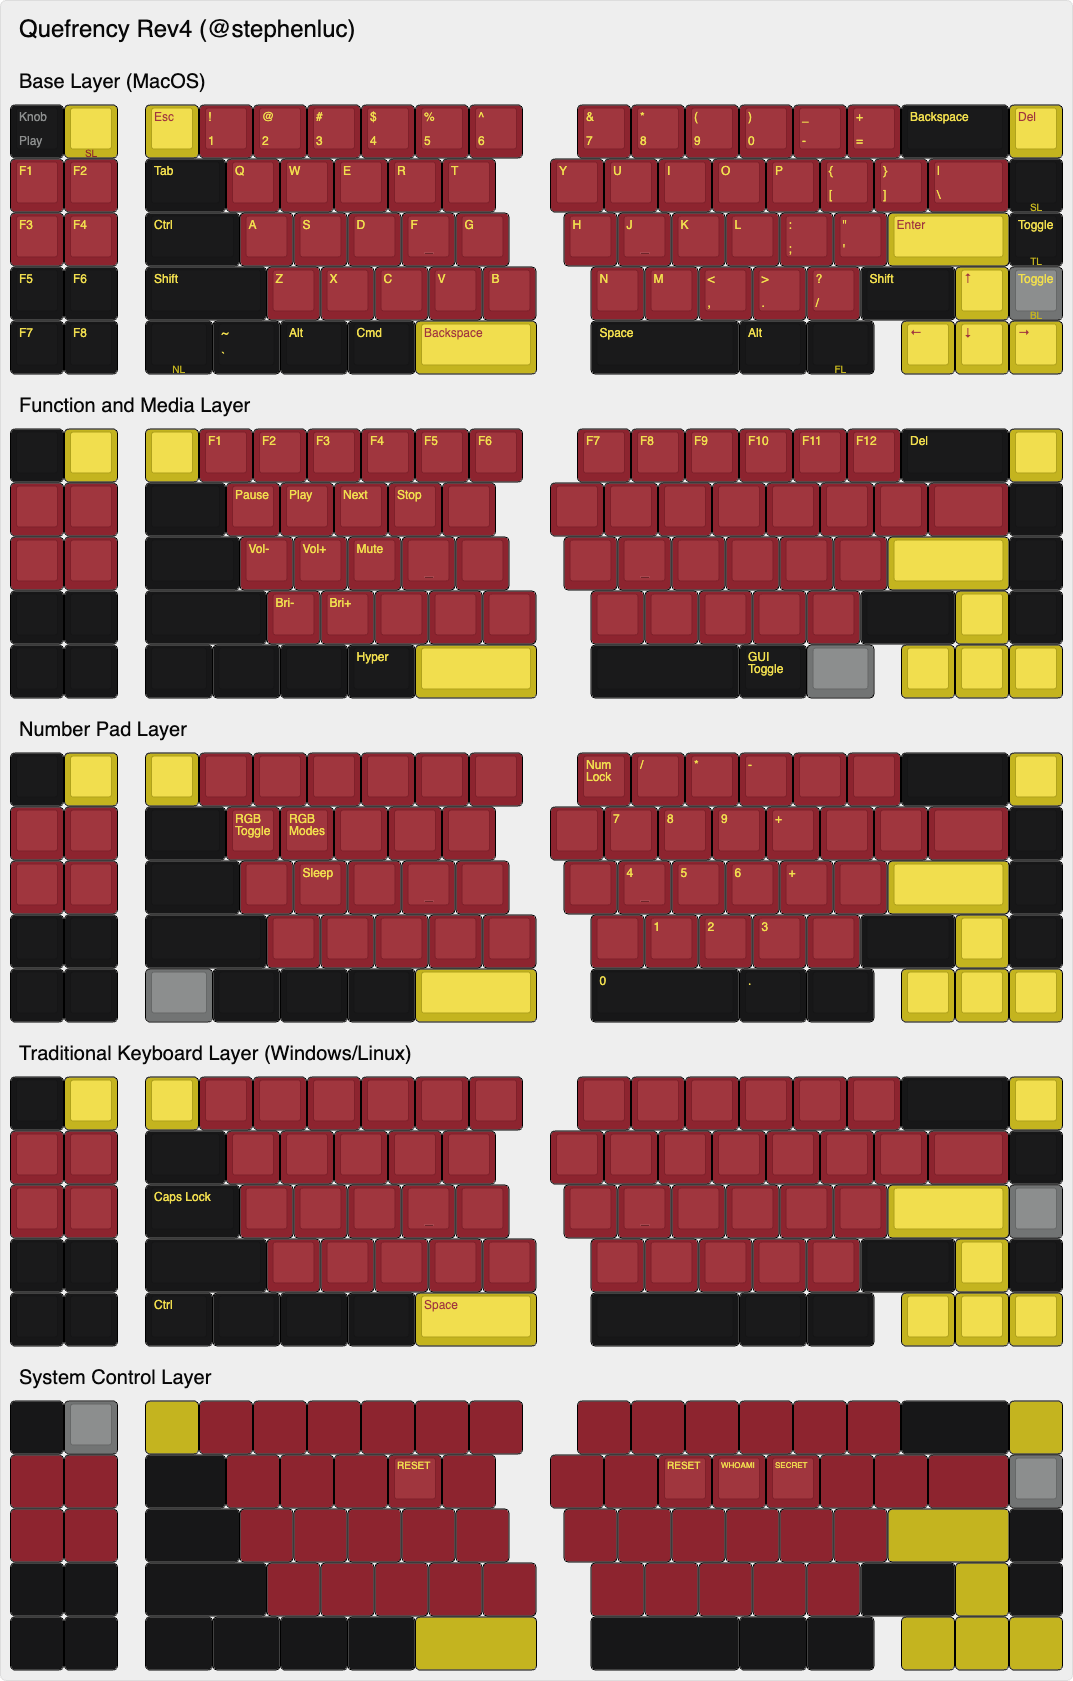
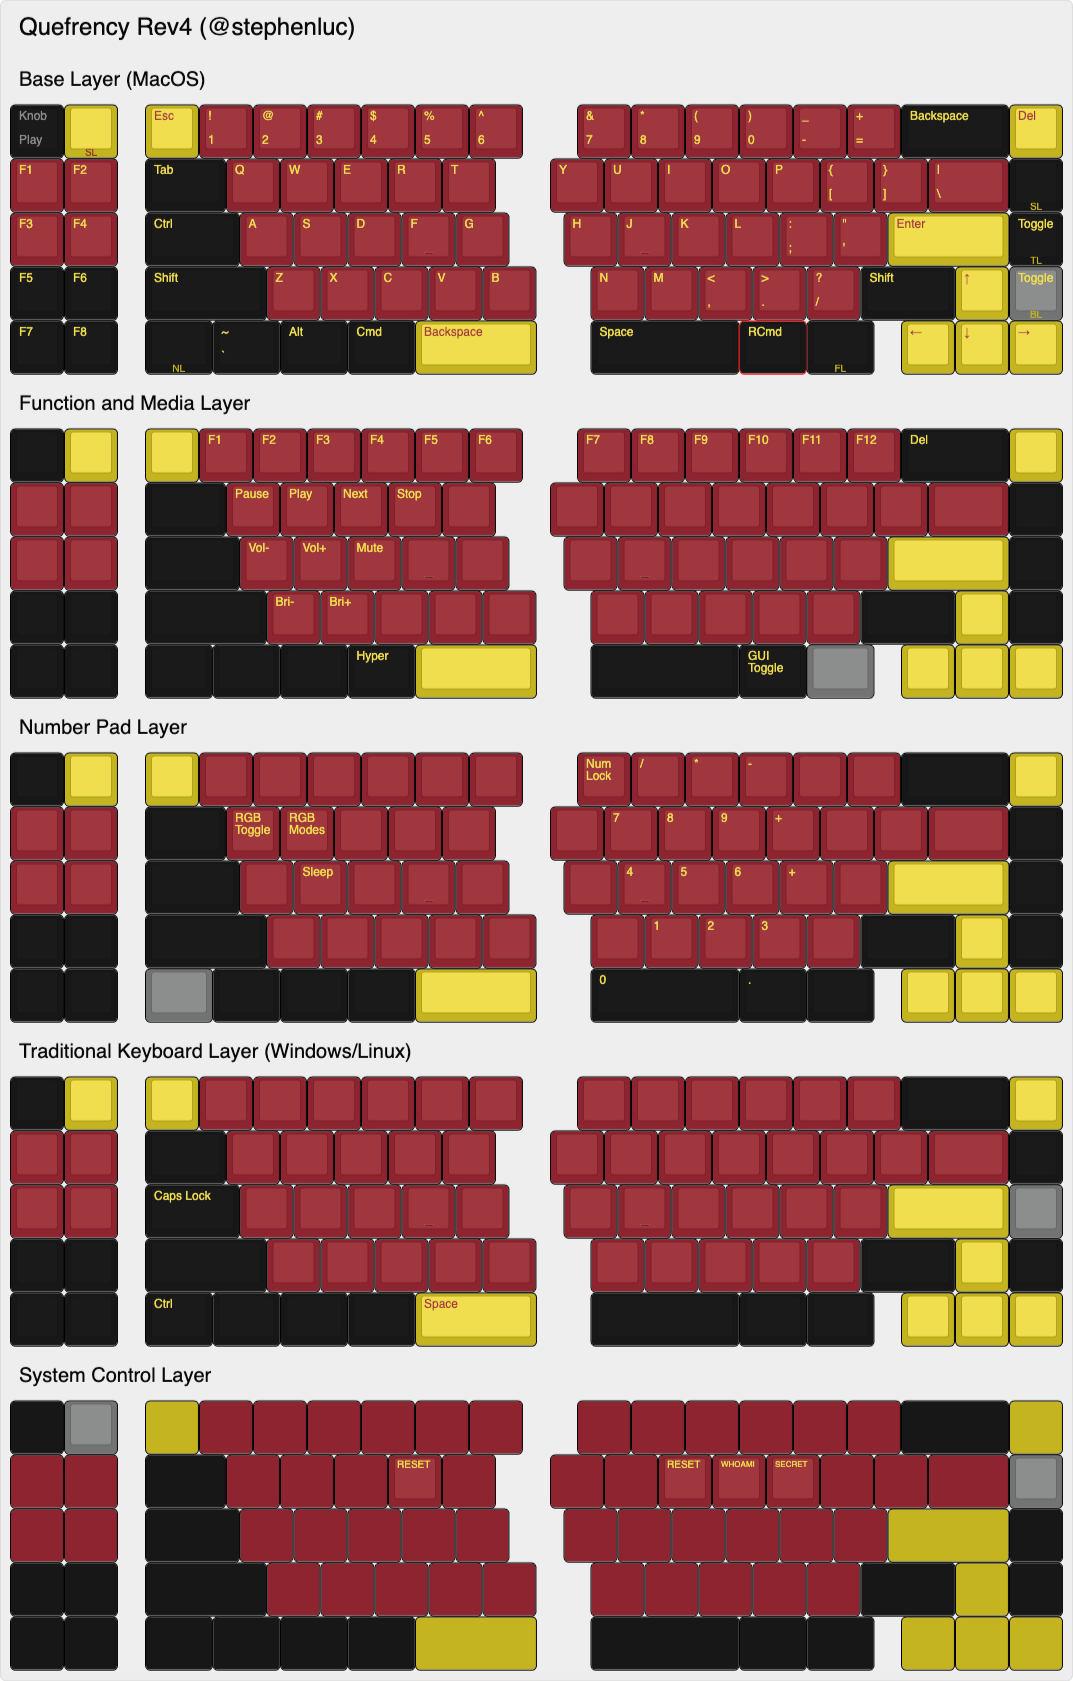
update the keymapping for quefrency

diff --git a/stephenluc/quefrency/keymap.c b/stephenluc/quefrency/keymap.c
@@ -66,7 +66,7 @@ const uint16_t PROGMEM keymaps[][MATRIX_ROWS][MATRIX_COLS] = {
    *   ├─────┼─────┤ ├─────────┴──┬──┴──┬──┴──┬──┴──┬──┴──┬──┴──┐  └──┬──┴──┬──┴──┬──┴──┬──┴──┬──┴──┬──┴───────┬─────┼─────┤
    *   │ F5  │ F6  │ │   Shift    │  Z  │  X  │  C  │  V  │  B  │     │  N  │  M  │  ,  │  .  │  /  │  Shift   │ Up  │T(BL)│
    *   ├─────┼─────┤ ├──────┬─────┴─┬───┴──┬──┴────┬┴─────┴─────┤     ├─────┴─────┴────┬┴─────┼─────┴┬───┬─────┼─────┼─────┤
-   *   │ F7  │ F8  │ │M(NL) │   `   │ Alt  │  Cmd  │ Backspace  │     │     Space      │ Alt  │ M(FL)│   │Left │Down │Right│
+   *   │ F7  │ F8  │ │M(NL) │   `   │ Alt  │  Cmd  │ Backspace  │     │     Space      │ RCmd │ M(FL)│   │Left │Down │Right│
    *   └─────┴─────┘ └──────┴───────┴──────┴───────┴────────────┘     └────────────────┴──────┴──────┘   └─────┴─────┴─────┘
    */
   [_BL] = LAYOUT_65_with_macro(
@@ -74,7 +74,7 @@ const uint16_t PROGMEM keymaps[][MATRIX_ROWS][MATRIX_COLS] = {
     KC_F1,   KC_F2,   KC_TAB,  KC_Q,    KC_W,    KC_E,    KC_R,    KC_T,    KC_Y,    KC_U,    KC_I,    KC_O,    KC_P,    KC_LBRC, KC_RBRC, KC_BSLS, MO(_SL),
     KC_F3,   KC_F4,   KC_LCTL, KC_A,    KC_S,    KC_D,    KC_F,    KC_G,    KC_H,    KC_J,    KC_K,    KC_L,    KC_SCLN, KC_QUOT, KC_ENT,  TO(_TL),
     KC_F5,   KC_F6,   KC_LSFT, KC_Z,    KC_X,    KC_C,    KC_V,    KC_B,    KC_N,    KC_M,    KC_COMM, KC_DOT,  KC_SLSH, KC_RSFT, KC_UP,   TO(_BL),
-    KC_F7,   KC_F8,   MO(_NL), KC_GRV, KC_LALT, KC_LGUI, KC_BSPC,           _______, KC_SPC,  KC_RALT, MO(_FL), _______, KC_LEFT, KC_DOWN, KC_RGHT
+    KC_F7,   KC_F8,   MO(_NL), KC_GRV, KC_LALT, KC_LGUI, KC_BSPC,           _______, KC_SPC,  KC_RGUI, MO(_FL), _______, KC_LEFT, KC_DOWN, KC_RGHT
   ),
 
   /* LAYOUT _FL: (Function Layer) Function and Media Key Layer
@@ -104,7 +104,7 @@ const uint16_t PROGMEM keymaps[][MATRIX_ROWS][MATRIX_COLS] = {
    *   ┌─────┬─────┐ ┌─────┬─────┬─────┬─────┬─────┬─────┬─────┐     ┌─────┬─────┬─────┬─────┬─────┬─────┬───────────┬─────┐
    *   │     │     │ │     │     │     │     │     │     │     │     │NumLk│  /  │  *  │  -  │     │     │           │     │
    *   ├─────┼─────┤ ├─────┴──┬──┴──┬──┴──┬──┴──┬──┴──┬──┴──┬──┘  ┌──┴──┬──┴──┬──┴──┬──┴──┬──┴──┬──┴──┬──┴──┬────────┼─────┤
-   *   │     │     │ │        │RgbTg│RgdMd│     │     │     │     │     │  7  │  8  │  9  │  +  │     │     │        │     │
+   *   │     │     │ │        │UgTog│UgNxt│     │     │     │     │     │  7  │  8  │  9  │  +  │     │     │        │     │
    *   ├─────┼─────┤ ├────────┴┬────┴┬────┴┬────┴┬────┴┬────┴┐    └┬────┴┬────┴┬────┴┬────┴┬────┴┬────┴┬────┴────────┼─────┤
    *   │     │     │ │         │     │Sleep│     │     │     │     │     │  4  │  5  │  6  │  +  │     │             │     │
    *   ├─────┼─────┤ ├─────────┴──┬──┴──┬──┴──┬──┴──┬──┴──┬──┴──┐  └──┬──┴──┬──┴──┬──┴──┬──┴──┬──┴──┬──┴───────┬─────┼─────┤
@@ -115,7 +115,7 @@ const uint16_t PROGMEM keymaps[][MATRIX_ROWS][MATRIX_COLS] = {
    */
   [_NL] = LAYOUT_65_with_macro(
     _______, _______, _______, _______, _______, _______, _______, _______, _______, KC_NUM, KC_PSLS, KC_PAST, KC_PMNS, _______, _______, _______, _______, _______,
-    _______, _______, _______, RGB_TOG, RGB_MOD, _______, _______, _______, _______, KC_KP_7, KC_KP_8, KC_KP_9, KC_PPLS, _______, _______, _______, _______,
+    _______, _______, _______, UG_TOGG, UG_NEXT, _______, _______, _______, _______, KC_KP_7, KC_KP_8, KC_KP_9, KC_PPLS, _______, _______, _______, _______,
     _______, _______, _______, _______, KC_SLEP, _______, _______, _______, _______, KC_KP_4, KC_KP_5, KC_KP_6, KC_PPLS, _______, _______, _______,
     _______, _______, _______, _______, _______, _______, _______, _______, _______, KC_KP_1, KC_KP_2, KC_KP_3, _______, _______, _______, _______,
     _______, _______, _x_x_x_, _______, _______, _______, _______,          _______, KC_KP_0, KC_DOT, _______, _______, _______, _______, _______

diff --git a/stephenluc/quefrency/readme.md b/stephenluc/quefrency/readme.md
@@ -18,13 +18,25 @@ See the [build environment setup](https://docs.qmk.fm/#/getting_started_build_to
 A build guide for this keyboard can be found here: [Keebio Build Guides](https://docs.keeb.io)
 
 # Steps to building this keyboard
-Create a new default mapping and file so qmk `compile` and `flash` work
+Install QMK CLI
+```
+brew install qmk/qmk/qmk
+export QMK_HOME='~/qmk_firmware'
+qmk setup
+```
+
+Create a new default mapping and file so qmk `compile` and `flash` work (only needed once)
 ```
 qmk new-keymap -kb keebio/quefrency/rev4
 ~/qmk_firmware/keyboards/keebio/quefrency/keymaps/stephenluc/keymap.c
 ```
 
-Copy and adjust keyboard then compile and flash
+Copy keymap to the QMK keymaps directory
+```
+cp ~/qmk_firmware/stephenluc/quefrency/keymap.c ~/qmk_firmware/keyboards/keebio/quefrency/keymaps/stephenluc/keymap.c
+```
+
+Compile and flash
 ```
 qmk compile -kb keebio/quefrency/rev4 -km stephenluc
 qmk flash -kb keebio/quefrency/rev4 -km stephenluc
